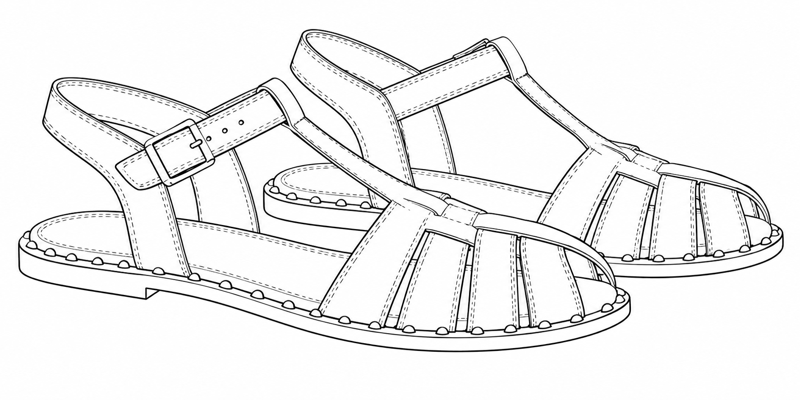
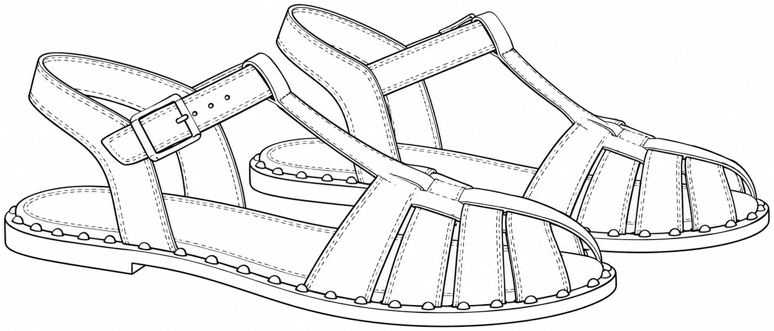
Etiqueta unitária: desenho ocupa o quadro todo (corta a margem branca e encaixa no máximo)
Claude-Session: https://claude.ai/code/session_011sTmrJ1c1ZoaMdG7GZQnEY

Changed region(s): [[0.0, 0.0, 1.0, 0.997]]

diff --git a/src/lib/etiquetas.js b/src/lib/etiquetas.js
@@ -32,18 +32,30 @@ function xCentroBarras(texto, modulo = 2) {
 
 // Desenho de linha do calçado → gráfico ZPL (^GFA, 1 bit). Converte no navegador; guarda em cache por URL.
 const cacheGF = {}
-export function desenhoParaZpl(url, maxW = 400, maxH = 184) {
+export function desenhoParaZpl(url, maxW = 408, maxH = 190) {
   if (!url) return Promise.resolve(null)
   if (cacheGF[url]) return cacheGF[url]
   cacheGF[url] = new Promise((resolve) => {
     const img = new Image()
     img.crossOrigin = 'anonymous'
     img.onload = () => {
-      const k = Math.min(maxW / img.width, maxH / img.height)
-      const w = Math.max(8, Math.floor((img.width * k) / 8) * 8)
-      const h = Math.max(1, Math.round(img.height * k))
+      // 1) corta a margem branca do desenho (para ele ocupar o quadro todo)
+      const o = document.createElement('canvas'); o.width = img.width; o.height = img.height
+      const og = o.getContext('2d'); og.fillStyle = '#fff'; og.fillRect(0, 0, o.width, o.height); og.drawImage(img, 0, 0)
+      const od = og.getImageData(0, 0, o.width, o.height).data
+      let x0 = o.width, y0 = o.height, x1 = -1, y1 = -1
+      for (let y = 0; y < o.height; y++) for (let x = 0; x < o.width; x++) {
+        const q = (y * o.width + x) * 4
+        if ((od[q] * 299 + od[q + 1] * 587 + od[q + 2] * 114) / 1000 < 200) { if (x < x0) x0 = x; if (x > x1) x1 = x; if (y < y0) y0 = y; if (y > y1) y1 = y }
+      }
+      if (x1 < 0) { x0 = 0; y0 = 0; x1 = o.width - 1; y1 = o.height - 1 }
+      const cw = x1 - x0 + 1, ch = y1 - y0 + 1
+      // 2) encaixa no quadro o maior possível
+      const k = Math.min(maxW / cw, maxH / ch)
+      const w = Math.max(8, Math.floor((cw * k) / 8) * 8)
+      const h = Math.max(1, Math.round(ch * k))
       const c = document.createElement('canvas'); c.width = w; c.height = h
-      const g = c.getContext('2d'); g.fillStyle = '#fff'; g.fillRect(0, 0, w, h); g.drawImage(img, 0, 0, w, h)
+      const g = c.getContext('2d'); g.fillStyle = '#fff'; g.fillRect(0, 0, w, h); g.drawImage(o, x0, y0, cw, ch, 0, 0, w, h)
       const px = g.getImageData(0, 0, w, h).data
       const bpr = w / 8
       let hex = ''

diff --git a/src/styles.css b/src/styles.css
@@ -1563,8 +1563,8 @@ tr.com-edit td { background: var(--surface-2); vertical-align: middle; }
 .etq-v2 { padding: 2.5% 2.5% 2%; }
 .v2-topo { flex: 1; display: flex; min-height: 0; }
 .v2-esq { flex: 0 0 55%; display: flex; flex-direction: column; }
-.v2-quadro { height: 50%; border: 1.5px solid #111; display: grid; place-items: center; padding: 2%; overflow: hidden; }
-.v2-quadro img { max-width: 100%; max-height: 100%; object-fit: contain; }
+.v2-quadro { height: 50%; border: 1.5px solid #111; display: grid; place-items: center; padding: 1%; overflow: hidden; }
+.v2-quadro img { width: 100%; height: 100%; object-fit: contain; }
 .v2-ref { font-size: 1.9em; font-weight: 800; line-height: 1.1; padding: 2% 0; border-bottom: 1.5px solid #111; }
 .v2-cor { font-size: .95em; font-weight: 700; padding-top: 2%; line-height: 1.15; }
 .v2-dir { flex: 1; margin-left: 2%; border-left: 1.5px solid #111; display: flex; flex-direction: column; align-items: center; padding-bottom: 4%; }
